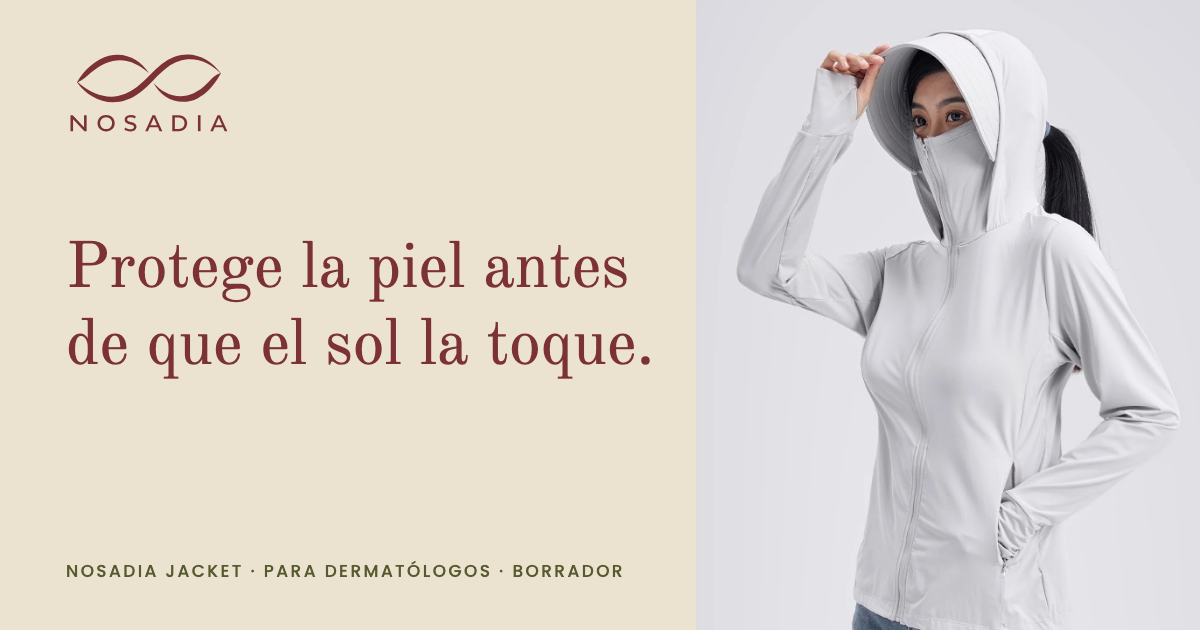
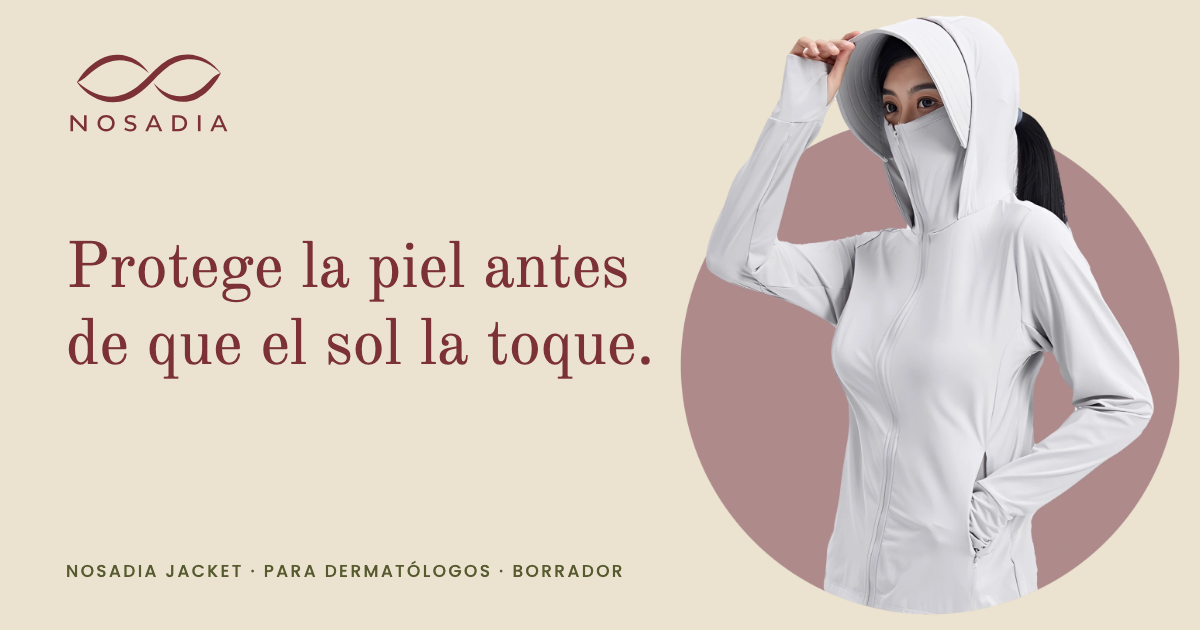
Use cutouts for both people in version 2
Both people now rise out of a dusty rose circle, so the crop ends in a
clean curve instead of a flat edge. The panel picture is rebuilt at higher
resolution, with colour and fabric texture taken from the original photo.
Its section moves to the Ivory + Burgundy + Dusty rose recipe to stay
within three colours.

Changed region(s): [[0.555, 0.0302, 0.9867, 1.0]]

diff --git a/v2/index.html b/v2/index.html
@@ -49,7 +49,7 @@
   </div>
   <figure class="hero-figure">
     <div class="hero-photo">
-      <img src="../img/worn-hero.webp" width="1152" height="1440" alt="Mujer con la Nosadia Jacket en gris claro: levanta la visera con la mano, el pulgar pasa por la abertura del puño, el panel facial está cerrado hasta la nariz y la cola de caballo sale por detrás de la capucha">
+      <img src="../img/worn-cutout.webp" width="1300" height="1559" alt="Mujer con la Nosadia Jacket en gris claro: levanta la visera con la mano, el pulgar pasa por la abertura del puño, el panel facial está cerrado hasta la nariz y la cola de caballo sale por detrás de la capucha">
     </div>
     <figcaption class="small">Imagen de referencia.</figcaption>
   </figure>
@@ -210,7 +210,7 @@
 </section>
 
 <!-- DESIGN · ivory, burgundy, olive -->
-<section class="r-standard" id="cobertura">
+<section class="r-highlight" id="cobertura">
   <div class="wrap stack-lg">
     <div class="split">
       <div class="stack">
@@ -224,7 +224,7 @@
 
     <div class="split center panel-feature" id="panel">
       <figure class="stack-sm">
-        <img src="../img/panel-profile.webp" width="876" height="876" loading="lazy" alt="Mujer de perfil con la Nosadia Jacket en color claro: visera ancha, panel facial cerrado hasta la nariz con cremallera y la cola de caballo detrás de la capucha">
+        <img src="../img/panel-cutout.webp" width="1300" height="1348" loading="lazy" alt="Mujer de perfil con la Nosadia Jacket en color claro: visera ancha, panel facial cerrado hasta la nariz con cremallera y la cola de caballo detrás de la capucha">
         <figcaption class="small"><a href="../#panel">Ver esta parte en la versión 1</a></figcaption>
       </figure>
       <div class="stack">

diff --git a/v2/v2.css b/v2/v2.css
@@ -1,4 +1,5 @@
-/* Version 2: the hero is a photo with its own backdrop, so the rose circle only peeks out behind it */
-.hero-photo{width:min(100%,520px)}
-.hero-photo::before{left:auto;right:-4%;top:-4%;width:44%}
-@media (max-width:560px){.hero-photo::before{right:-3%;top:-3%}}
+/* Version 2: each person is cut out and rises out of a dusty rose circle, which is part of the image */
+.hero-photo{width:min(100%,540px)}
+.hero-photo::before{display:none}
+/* That rose circle makes this section the Ivory + Burgundy + Dusty rose recipe, so its lines turn burgundy */
+#cobertura .ways-block,#cobertura .caveat{border-color:var(--burgundy)}
